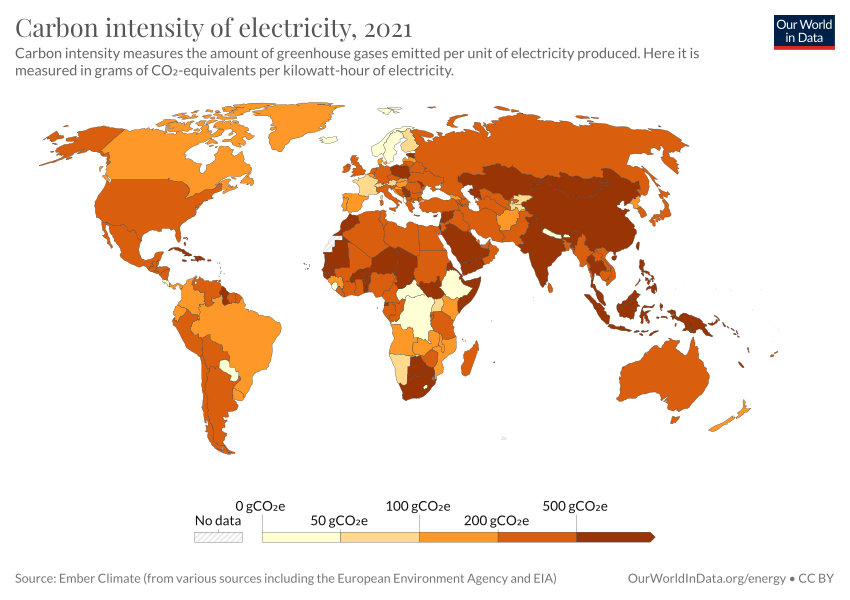
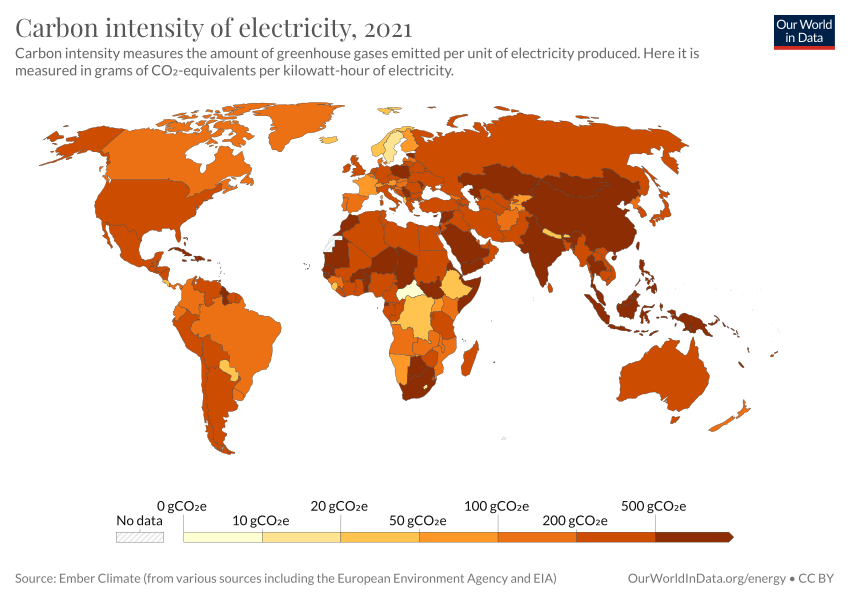
Deploy 2022-10-06T21:45:19.979Z Updating chart carbon-intensity-electricity

diff --git a/co2-emissions.html b/co2-emissions.html
@@ -1,4 +1,4 @@
-<!doctype html><html><head><meta name="viewport" content="width=device-width, initial-scale=1"/><title>CO2 emissions - Our World in Data</title><meta name="description" content="How much CO2 does the world emit? Which countries emit the most?"/><link rel="canonical" href="https://ourworldindata.org/co2-emissions"/><link rel="alternate" type="application/atom+xml" href="/atom.xml"/><link rel="apple-touch-icon" sizes="180x180" href="/apple-touch-icon.png"/><meta property="fb:app_id" content="1149943818390250"/><meta property="og:url" content="https://ourworldindata.org/co2-emissions"/><meta property="og:title" content="CO2 emissions"/><meta property="og:description" content="How much CO2 does the world emit? Which countries emit the most?"/><meta property="og:image" content="https://ourworldindata.org/uploads/2022/03/Screenshot-2022-03-04-at-16.51.31-768x480.png"/><meta property="og:site_name" content="Our World in Data"/><meta name="twitter:card" content="summary_large_image"/><meta name="twitter:site" content="@OurWorldInData"/><meta name="twitter:creator" content="@OurWorldInData"/><meta name="twitter:title" content="CO2 emissions"/><meta name="twitter:description" content="How much CO2 does the world emit? Which countries emit the most?"/><meta name="twitter:image" content="https://ourworldindata.org/uploads/2022/03/Screenshot-2022-03-04-at-16.51.31-768x480.png"/><link href="https://fonts.googleapis.com/css?family=Lato:300,400,400i,700,700i|Playfair+Display:400,600,700&amp;display=swap" rel="stylesheet"/><link rel="stylesheet" href="https://ourworldindata.org/assets/commons.css"/><link rel="stylesheet" href="https://ourworldindata.org/assets/owid.css"/><meta name="citation_title" content="CO₂ and Greenhouse Gas Emissions"/><meta name="citation_fulltext_html_url" content="https://ourworldindata.org/co2-and-other-greenhouse-gas-emissions"/><meta name="citation_fulltext_world_readable" content=""/><meta name="citation_publication_date" content="2020/05/11"/><meta name="citation_journal_title" content="Our World in Data"/><meta name="citation_journal_abbrev" content="Our World in Data"/><meta name="citation_author" content="Hannah Ritchie"/><meta name="citation_author" content="Max Roser"/><meta name="citation_author" content="Pablo Rosado"/></head><body class=""><header class="site-header"><div class="wrapper site-navigation-bar"><div class="site-logo"><a href="/">Our World<br/> in Data</a></div><nav class="site-navigation"><div class="topics-button-wrapper"><a href="/#entries" class="topics-button"><div class="label">Articles <br/><strong>by topic</strong></div><div class="icon"><svg width="12" height="6"><path d="M0,0 L12,0 L6,6 Z" fill="currentColor"></path></svg></div></a></div><div><div class="site-primary-navigation"><form class="HeaderSearch" action="/search" method="GET"><input type="search" name="q" placeholder="Search..."/><div class="icon"><svg aria-hidden="true" focusable="false" data-prefix="fas" data-icon="magnifying-glass" class="svg-inline--fa fa-magnifying-glass " role="img" xmlns="http://www.w3.org/2000/svg" viewBox="0 0 512 512"><path fill="currentColor" d="M416 208c0 45.9-14.9 88.3-40 122.7L502.6 457.4c12.5 12.5 12.5 32.8 0 45.3s-32.8 12.5-45.3 0L330.7 376c-34.4 25.2-76.8 40-122.7 40C93.1 416 0 322.9 0 208S93.1 0 208 0S416 93.1 416 208zM208 352c79.5 0 144-64.5 144-144s-64.5-144-144-144S64 128.5 64 208s64.5 144 144 144z"></path></svg></div></form><ul class="site-primary-links"><li><a href="/blog" data-track-note="header-navigation">Latest</a></li><li><a href="/about" data-track-note="header-navigation">About</a></li><li><a href="/donate" data-track-note="header-navigation">Donate</a></li></ul></div><div class="site-secondary-navigation"><ul class="site-secondary-links"><li><a href="/charts" data-track-note="header-navigation">All charts</a></li><li><a href="https://sdg-tracker.org" data-track-note="header-navigation">Sustainable Development Goals Tracker</a></li></ul></div></div></nav><div class="header-logos-wrapper"><a href="https://www.oxfordmartin.ox.ac.uk/global-development" class="oxford-logo"><img src="https://ourworldindata.org/oms-logo.svg" alt="Oxford Martin School logo"/></a><a href="https://global-change-data-lab.org/" class="gcdl-logo"><img src="https://ourworldindata.org/gcdl-logo.svg" alt="Global Change Data Lab logo"/></a></div><div class="mobile-site-navigation"><button data-track-note="mobile-search-button"><svg aria-hidden="true" focusable="false" data-prefix="fas" data-icon="magnifying-glass" class="svg-inline--fa fa-magnifying-glass " role="img" xmlns="http://www.w3.org/2000/svg" viewBox="0 0 512 512"><path fill="currentColor" d="M416 208c0 45.9-14.9 88.3-40 122.7L502.6 457.4c12.5 12.5 12.5 32.8 0 45.3s-32.8 12.5-45.3 0L330.7 376c-34.4 25.2-76.8 40-122.7 40C93.1 416 0 322.9 0 208S93.1 0 208 0S416 93.1 416 208zM208 352c79.5 0 144-64.5 144-144s-64.5-144-144-144S64 128.5 64 208s64.5 144 144 144z"></path></svg></button><button data-track-note="mobile-newsletter-button"><svg aria-hidden="true" focusable="false" data-prefix="fas" data-icon="envelope-open-text" class="svg-inline--fa fa-envelope-open-text " role="img" xmlns="http://www.w3.org/2000/svg" viewBox="0 0 512 512"><path fill="currentColor" d="M215.4 96H144 107.8 96v8.8V144v40.4 89L.2 202.5c1.6-18.1 10.9-34.9 25.7-45.8L48 140.3V96c0-26.5 21.5-48 48-48h76.6l49.9-36.9C232.2 3.9 243.9 0 256 0s23.8 3.9 33.5 11L339.4 48H416c26.5 0 48 21.5 48 48v44.3l22.1 16.4c14.8 10.9 24.1 27.7 25.7 45.8L416 273.4v-89V144 104.8 96H404.2 368 296.6 215.4zM0 448V242.1L217.6 403.3c11.1 8.2 24.6 12.7 38.4 12.7s27.3-4.4 38.4-12.7L512 242.1V448v0c0 35.3-28.7 64-64 64H64c-35.3 0-64-28.7-64-64v0zM176 160H336c8.8 0 16 7.2 16 16s-7.2 16-16 16H176c-8.8 0-16-7.2-16-16s7.2-16 16-16zm0 64H336c8.8 0 16 7.2 16 16s-7.2 16-16 16H176c-8.8 0-16-7.2-16-16s7.2-16 16-16z"></path></svg></button><button data-track-note="mobile-hamburger-button"><svg aria-hidden="true" focusable="false" data-prefix="fas" data-icon="bars" class="svg-inline--fa fa-bars " role="img" xmlns="http://www.w3.org/2000/svg" viewBox="0 0 448 512"><path fill="currentColor" d="M0 96C0 78.3 14.3 64 32 64H416c17.7 0 32 14.3 32 32s-14.3 32-32 32H32C14.3 128 0 113.7 0 96zM0 256c0-17.7 14.3-32 32-32H416c17.7 0 32 14.3 32 32s-14.3 32-32 32H32c-17.7 0-32-14.3-32-32zM448 416c0 17.7-14.3 32-32 32H32c-17.7 0-32-14.3-32-32s14.3-32 32-32H416c17.7 0 32 14.3 32 32z"></path></svg></button></div></div></header><div class="alert-banner"><div class="content"><div class="text"><strong>COVID-19 vaccinations, cases, excess mortality, and much more</strong></div><a href="/coronavirus#explore-the-global-situation" data-track-note="covid-banner-click">Explore our COVID-19 data</a></div></div><main><article class="page with-sidebar large-banner"><div class="offset-header"><header class="article-header"><div class="article-titles"><h1 class="entry-title">CO2 emissions</h1><div class="breadcrumb"><a href="/">Home</a><span class="separator"><svg aria-hidden="true" focusable="false" data-prefix="fas" data-icon="angle-right" class="svg-inline--fa fa-angle-right " role="img" xmlns="http://www.w3.org/2000/svg" viewBox="0 0 320 512"><path fill="currentColor" d="M278.6 233.4c12.5 12.5 12.5 32.8 0 45.3l-160 160c-12.5 12.5-32.8 12.5-45.3 0s-12.5-32.8 0-45.3L210.7 256 73.4 118.6c-12.5-12.5-12.5-32.8 0-45.3s32.8-12.5 45.3 0l160 160z"></path></svg></span><a data-track-note="breadcrumb" href="/co2-and-other-greenhouse-gas-emissions">CO₂ and GHG Emissions</a><span class="separator"><svg aria-hidden="true" focusable="false" data-prefix="fas" data-icon="angle-right" class="svg-inline--fa fa-angle-right " role="img" xmlns="http://www.w3.org/2000/svg" viewBox="0 0 320 512"><path fill="currentColor" d="M278.6 233.4c12.5 12.5 12.5 32.8 0 45.3l-160 160c-12.5 12.5-32.8 12.5-45.3 0s-12.5-32.8 0-45.3L210.7 256 73.4 118.6c-12.5-12.5-12.5-32.8 0-45.3s32.8-12.5 45.3 0l160 160z"></path></svg></span><span>CO₂ emissions</span></div></div><div class="authors-byline"><a href="/team">by Hannah Ritchie and Max Roser</a></div><div class="tools"><a href="#licence"><svg aria-hidden="true" focusable="false" data-prefix="fab" data-icon="creative-commons" class="svg-inline--fa fa-creative-commons " role="img" xmlns="http://www.w3.org/2000/svg" viewBox="0 0 496 512"><path fill="currentColor" d="M245.83 214.87l-33.22 17.28c-9.43-19.58-25.24-19.93-27.46-19.93-22.13 0-33.22 14.61-33.22 43.84 0 23.57 9.21 43.84 33.22 43.84 14.47 0 24.65-7.09 30.57-21.26l30.55 15.5c-6.17 11.51-25.69 38.98-65.1 38.98-22.6 0-73.96-10.32-73.96-77.05 0-58.69 43-77.06 72.63-77.06 30.72-.01 52.7 11.95 65.99 35.86zm143.05 0l-32.78 17.28c-9.5-19.77-25.72-19.93-27.9-19.93-22.14 0-33.22 14.61-33.22 43.84 0 23.55 9.23 43.84 33.22 43.84 14.45 0 24.65-7.09 30.54-21.26l31 15.5c-2.1 3.75-21.39 38.98-65.09 38.98-22.69 0-73.96-9.87-73.96-77.05 0-58.67 42.97-77.06 72.63-77.06 30.71-.01 52.58 11.95 65.56 35.86zM247.56 8.05C104.74 8.05 0 123.11 0 256.05c0 138.49 113.6 248 247.56 248 129.93 0 248.44-100.87 248.44-248 0-137.87-106.62-248-248.44-248zm.87 450.81c-112.54 0-203.7-93.04-203.7-202.81 0-105.42 85.43-203.27 203.72-203.27 112.53 0 202.82 89.46 202.82 203.26-.01 121.69-99.68 202.82-202.84 202.82z"></path></svg>Reuse our work freely</a><a href="#citation"><svg aria-hidden="true" focusable="false" data-prefix="fas" data-icon="book" class="svg-inline--fa fa-book " role="img" xmlns="http://www.w3.org/2000/svg" viewBox="0 0 448 512"><path fill="currentColor" d="M96 0C43 0 0 43 0 96V416c0 53 43 96 96 96H384h32c17.7 0 32-14.3 32-32s-14.3-32-32-32V384c17.7 0 32-14.3 32-32V32c0-17.7-14.3-32-32-32H384 96zm0 384H352v64H96c-17.7 0-32-14.3-32-32s14.3-32 32-32zm32-240c0-8.8 7.2-16 16-16H336c8.8 0 16 7.2 16 16s-7.2 16-16 16H144c-8.8 0-16-7.2-16-16zm16 48H336c8.8 0 16 7.2 16 16s-7.2 16-16 16H144c-8.8 0-16-7.2-16-16s7.2-16 16-16z"></path></svg>Cite this research</a></div></header></div><div class="offset-subnavigation"><div class="site-subnavigation"><div class="site-subnavigation-scroll"><ul class="site-subnavigation-links"><li class="highlight"><a href="/co2-and-other-greenhouse-gas-emissions" data-track-note="co2-subnav-co2-and-ghg-emissions">CO₂ and GHG Emissions<svg aria-hidden="true" focusable="false" data-prefix="fas" data-icon="chevron-left" class="svg-inline--fa fa-chevron-left " role="img" xmlns="http://www.w3.org/2000/svg" viewBox="0 0 384 512"><path fill="currentColor" d="M41.4 233.4c-12.5 12.5-12.5 32.8 0 45.3l192 192c12.5 12.5 32.8 12.5 45.3 0s12.5-32.8 0-45.3L109.3 256 278.6 86.6c12.5-12.5 12.5-32.8 0-45.3s-32.8-12.5-45.3 0l-192 192z"></path></svg></a></li><li class=""><a href="/co2-and-other-greenhouse-gas-emissions#co2-and-greenhouse-gas-emissions-country-profiles" data-track-note="co2-subnav-by-country">By country</a></li><li class=""><a href="/explorers/co2" data-track-note="co2-subnav-co2-data-explorer">Data explorer</a></li><li class="current"><a href="/co2-emissions" data-track-note="co2-subnav-co2-emissions">CO₂ emissions</a></li><li class=""><a href="/emissions-by-fuel" data-track-note="co2-subnav-by-fuel">CO₂ by fuel</a></li><li class=""><a href="/greenhouse-gas-emissions" data-track-note="co2-subnav-ghg-emissions">GHG emissions</a></li><li class=""><a href="/emissions-by-sector" data-track-note="co2-subnav-by-sector">By sector</a></li><li class=""><a href="/atmospheric-concentrations" data-track-note="co2-subnav-atm-concentrations">Atmospheric concentrations</a></li><li class=""><a href="/explorers/climate-change" data-track-note="co2-subnav-climate-impacts">Climate impacts</a></li></ul></div></div></div><div class="content-wrapper"><div class="toc-wrapper"><aside class="entry-sidebar"><nav class="entry-toc"><ul><li><a href="#" data-track-note="toc-header">CO2 emissions</a></li><li class="section"><a href="#global-co2-emissions-from-fossil-fuels" data-track-note="toc-link">Global CO2 emissions from fossil fuels</a></li><li class="subsection"><a href="#global-co2-emissions-from-fossil-fuels-global-co2-emissions-from-fossil-fuels" data-track-note="toc-link">Global CO2 emissions from fossil fuels</a></li><li class="subsection"><a href="#global-co2-emissions-from-fossil-fuels-and-land-use-change" data-track-note="toc-link">Global CO2 emissions from fossil fuels and land use change</a></li><li class="subsection"><a href="#co2-emissions-by-region" data-track-note="toc-link">CO2 emissions by region</a></li><li class="section"><a href="#per-capita-co2-emissions" data-track-note="toc-link">Per capita CO2 emissions</a></li><li class="section"><a href="#annual-co2-emissions" data-track-note="toc-link">Annual CO2 emissions</a></li><li class="section"><a href="#annual-change-in-co2-emissions" data-track-note="toc-link">Annual change in CO2 emissions</a></li><li class="section"><a href="#cumulative-co2-emissions" data-track-note="toc-link">Cumulative CO2 emissions</a></li><li class="section"><a href="#consumption-based-trade-adjusted-emissions" data-track-note="toc-link">Consumption-based (trade-adjusted) emissions</a></li><li class="section"><a href="#decoupling-co2-emissions-from-economic-growth" data-track-note="toc-link">Decoupling CO₂ emissions from economic growth</a></li><li class="section"><a href="#global-inequalities-in-co2-emissions" data-track-note="toc-link">Global inequalities in CO2 emissions</a></li><li class="subsection"><a href="#global-inequalities-by-production" data-track-note="toc-link">Global inequalities by production</a></li><li class="subsection"><a href="#global-inequalities-by-consumption" data-track-note="toc-link">Global inequalities by consumption</a></li><li class="section"><a href="#how-do-we-measure-or-estimate-co2-emissions" data-track-note="toc-link">How do we measure or estimate CO2 emissions?</a></li><li class="section"><a href="#endnotes" data-track-note="toc-link">Endnotes</a></li><li class="section"><a href="#licence" data-track-note="toc-link">Licence</a></li><li class="section"><a href="#citation" data-track-note="toc-link">Citation</a></li></ul></nav><div class="toggle-toc"><button data-track-note="page-toggle-toc" aria-label="Open table of contents"><svg aria-hidden="true" focusable="false" data-prefix="fas" data-icon="bars" class="svg-inline--fa fa-bars " role="img" xmlns="http://www.w3.org/2000/svg" viewBox="0 0 448 512"><path fill="currentColor" d="M0 96C0 78.3 14.3 64 32 64H416c17.7 0 32 14.3 32 32s-14.3 32-32 32H32C14.3 128 0 113.7 0 96zM0 256c0-17.7 14.3-32 32-32H416c17.7 0 32 14.3 32 32s-14.3 32-32 32H32c-17.7 0-32-14.3-32-32zM448 416c0 17.7-14.3 32-32 32H32c-17.7 0-32-14.3-32-32s14.3-32 32-32H416c17.7 0 32 14.3 32 32z"></path></svg><span class="label">Contents</span></button></div></aside></div><div class="offset-content"><div class="content-and-footnotes"><div class="article-content"><section><div class="wp-block-columns is-style-sticky-right"><div class="wp-block-column"><p>You can&nbsp;<strong><a href="https://github.com/owid/co2-data">download</a></strong>&nbsp;our complete <em>Our World in Data</em> CO<sub>2</sub> and Greenhouse Gas Emissions database.</p><hr class="wp-block-separator"><p>Carbon dioxide emissions are the primary driver of global climate change. It’s widely recognised that to avoid the worst impacts of climate change, the world needs to urgently reduce emissions. But, how this responsibility is shared between regions, countries, and individuals has been an endless point of contention in international discussions. </p><p>This debate arises from the various ways in which emissions are compared: as annual emissions by country; emissions per person; historical contributions; and whether they adjust for traded goods and services. These metrics can tell very different stories. </p><p>We teamed up with the YouTube channel, <em>Kurzgesagt</em>, to produce a video which explored these different metrics in detail: <a href="https://www.youtube.com/watch?v=ipVxxxqwBQw">‘Who is responsible for climate change? – Who needs to fix it?’</a>. All of the data and research featured in this video is contained in this article: below we look in detail at the many ways emissions are broken down.</p><div class="wp-container-633f28788ea16 wp-block-group">    <div class="block-wrapper"><div class="wp-block-owid-prominent-link with-image" data-no-lightbox="true" data-style="is-style-thin" data-title="&nbsp;‘Who is responsible for climate change? – Who needs to fix it?’"><a href="https://www.youtube.com/watch?v=ipVxxxqwBQw"><figure><img width="768" height="433" src="https://ourworldindata.org/uploads/2020/06/CO2-Kurzgesagt-768x433.png" class="attachment-medium_large size-medium_large" alt="Co2 kurzgesagt" loading="lazy" srcset="https://ourworldindata.org/uploads/2020/06/CO2-Kurzgesagt-768x433.png 768w, https://ourworldindata.org/uploads/2020/06/CO2-Kurzgesagt-400x225.png 400w, https://ourworldindata.org/uploads/2020/06/CO2-Kurzgesagt-800x451.png 800w, https://ourworldindata.org/uploads/2020/06/CO2-Kurzgesagt-150x84.png 150w, https://ourworldindata.org/uploads/2020/06/CO2-Kurzgesagt.png 1422w" sizes="(max-width: 768px) 100vw, 768px" data-high-res-src="https://ourworldindata.org/uploads/2020/06/CO2-Kurzgesagt.png"></figure><div class="content-wrapper"><div class="content">
+<!doctype html><html><head><meta name="viewport" content="width=device-width, initial-scale=1"/><title>CO2 emissions - Our World in Data</title><meta name="description" content="How much CO2 does the world emit? Which countries emit the most?"/><link rel="canonical" href="https://ourworldindata.org/co2-emissions"/><link rel="alternate" type="application/atom+xml" href="/atom.xml"/><link rel="apple-touch-icon" sizes="180x180" href="/apple-touch-icon.png"/><meta property="fb:app_id" content="1149943818390250"/><meta property="og:url" content="https://ourworldindata.org/co2-emissions"/><meta property="og:title" content="CO2 emissions"/><meta property="og:description" content="How much CO2 does the world emit? Which countries emit the most?"/><meta property="og:image" content="https://ourworldindata.org/uploads/2022/03/Screenshot-2022-03-04-at-16.51.31-768x480.png"/><meta property="og:site_name" content="Our World in Data"/><meta name="twitter:card" content="summary_large_image"/><meta name="twitter:site" content="@OurWorldInData"/><meta name="twitter:creator" content="@OurWorldInData"/><meta name="twitter:title" content="CO2 emissions"/><meta name="twitter:description" content="How much CO2 does the world emit? Which countries emit the most?"/><meta name="twitter:image" content="https://ourworldindata.org/uploads/2022/03/Screenshot-2022-03-04-at-16.51.31-768x480.png"/><link href="https://fonts.googleapis.com/css?family=Lato:300,400,400i,700,700i|Playfair+Display:400,600,700&amp;display=swap" rel="stylesheet"/><link rel="stylesheet" href="https://ourworldindata.org/assets/commons.css"/><link rel="stylesheet" href="https://ourworldindata.org/assets/owid.css"/><meta name="citation_title" content="CO₂ and Greenhouse Gas Emissions"/><meta name="citation_fulltext_html_url" content="https://ourworldindata.org/co2-and-other-greenhouse-gas-emissions"/><meta name="citation_fulltext_world_readable" content=""/><meta name="citation_publication_date" content="2020/05/11"/><meta name="citation_journal_title" content="Our World in Data"/><meta name="citation_journal_abbrev" content="Our World in Data"/><meta name="citation_author" content="Hannah Ritchie"/><meta name="citation_author" content="Max Roser"/><meta name="citation_author" content="Pablo Rosado"/></head><body class=""><header class="site-header"><div class="wrapper site-navigation-bar"><div class="site-logo"><a href="/">Our World<br/> in Data</a></div><nav class="site-navigation"><div class="topics-button-wrapper"><a href="/#entries" class="topics-button"><div class="label">Articles <br/><strong>by topic</strong></div><div class="icon"><svg width="12" height="6"><path d="M0,0 L12,0 L6,6 Z" fill="currentColor"></path></svg></div></a></div><div><div class="site-primary-navigation"><form class="HeaderSearch" action="/search" method="GET"><input type="search" name="q" placeholder="Search..."/><div class="icon"><svg aria-hidden="true" focusable="false" data-prefix="fas" data-icon="magnifying-glass" class="svg-inline--fa fa-magnifying-glass " role="img" xmlns="http://www.w3.org/2000/svg" viewBox="0 0 512 512"><path fill="currentColor" d="M416 208c0 45.9-14.9 88.3-40 122.7L502.6 457.4c12.5 12.5 12.5 32.8 0 45.3s-32.8 12.5-45.3 0L330.7 376c-34.4 25.2-76.8 40-122.7 40C93.1 416 0 322.9 0 208S93.1 0 208 0S416 93.1 416 208zM208 352c79.5 0 144-64.5 144-144s-64.5-144-144-144S64 128.5 64 208s64.5 144 144 144z"></path></svg></div></form><ul class="site-primary-links"><li><a href="/blog" data-track-note="header-navigation">Latest</a></li><li><a href="/about" data-track-note="header-navigation">About</a></li><li><a href="/donate" data-track-note="header-navigation">Donate</a></li></ul></div><div class="site-secondary-navigation"><ul class="site-secondary-links"><li><a href="/charts" data-track-note="header-navigation">All charts</a></li><li><a href="https://sdg-tracker.org" data-track-note="header-navigation">Sustainable Development Goals Tracker</a></li></ul></div></div></nav><div class="header-logos-wrapper"><a href="https://www.oxfordmartin.ox.ac.uk/global-development" class="oxford-logo"><img src="https://ourworldindata.org/oms-logo.svg" alt="Oxford Martin School logo"/></a><a href="https://global-change-data-lab.org/" class="gcdl-logo"><img src="https://ourworldindata.org/gcdl-logo.svg" alt="Global Change Data Lab logo"/></a></div><div class="mobile-site-navigation"><button data-track-note="mobile-search-button"><svg aria-hidden="true" focusable="false" data-prefix="fas" data-icon="magnifying-glass" class="svg-inline--fa fa-magnifying-glass " role="img" xmlns="http://www.w3.org/2000/svg" viewBox="0 0 512 512"><path fill="currentColor" d="M416 208c0 45.9-14.9 88.3-40 122.7L502.6 457.4c12.5 12.5 12.5 32.8 0 45.3s-32.8 12.5-45.3 0L330.7 376c-34.4 25.2-76.8 40-122.7 40C93.1 416 0 322.9 0 208S93.1 0 208 0S416 93.1 416 208zM208 352c79.5 0 144-64.5 144-144s-64.5-144-144-144S64 128.5 64 208s64.5 144 144 144z"></path></svg></button><button data-track-note="mobile-newsletter-button"><svg aria-hidden="true" focusable="false" data-prefix="fas" data-icon="envelope-open-text" class="svg-inline--fa fa-envelope-open-text " role="img" xmlns="http://www.w3.org/2000/svg" viewBox="0 0 512 512"><path fill="currentColor" d="M215.4 96H144 107.8 96v8.8V144v40.4 89L.2 202.5c1.6-18.1 10.9-34.9 25.7-45.8L48 140.3V96c0-26.5 21.5-48 48-48h76.6l49.9-36.9C232.2 3.9 243.9 0 256 0s23.8 3.9 33.5 11L339.4 48H416c26.5 0 48 21.5 48 48v44.3l22.1 16.4c14.8 10.9 24.1 27.7 25.7 45.8L416 273.4v-89V144 104.8 96H404.2 368 296.6 215.4zM0 448V242.1L217.6 403.3c11.1 8.2 24.6 12.7 38.4 12.7s27.3-4.4 38.4-12.7L512 242.1V448v0c0 35.3-28.7 64-64 64H64c-35.3 0-64-28.7-64-64v0zM176 160H336c8.8 0 16 7.2 16 16s-7.2 16-16 16H176c-8.8 0-16-7.2-16-16s7.2-16 16-16zm0 64H336c8.8 0 16 7.2 16 16s-7.2 16-16 16H176c-8.8 0-16-7.2-16-16s7.2-16 16-16z"></path></svg></button><button data-track-note="mobile-hamburger-button"><svg aria-hidden="true" focusable="false" data-prefix="fas" data-icon="bars" class="svg-inline--fa fa-bars " role="img" xmlns="http://www.w3.org/2000/svg" viewBox="0 0 448 512"><path fill="currentColor" d="M0 96C0 78.3 14.3 64 32 64H416c17.7 0 32 14.3 32 32s-14.3 32-32 32H32C14.3 128 0 113.7 0 96zM0 256c0-17.7 14.3-32 32-32H416c17.7 0 32 14.3 32 32s-14.3 32-32 32H32c-17.7 0-32-14.3-32-32zM448 416c0 17.7-14.3 32-32 32H32c-17.7 0-32-14.3-32-32s14.3-32 32-32H416c17.7 0 32 14.3 32 32z"></path></svg></button></div></div></header><div class="alert-banner"><div class="content"><div class="text"><strong>COVID-19 vaccinations, cases, excess mortality, and much more</strong></div><a href="/coronavirus#explore-the-global-situation" data-track-note="covid-banner-click">Explore our COVID-19 data</a></div></div><main><article class="page with-sidebar large-banner"><div class="offset-header"><header class="article-header"><div class="article-titles"><h1 class="entry-title">CO2 emissions</h1><div class="breadcrumb"><a href="/">Home</a><span class="separator"><svg aria-hidden="true" focusable="false" data-prefix="fas" data-icon="angle-right" class="svg-inline--fa fa-angle-right " role="img" xmlns="http://www.w3.org/2000/svg" viewBox="0 0 320 512"><path fill="currentColor" d="M278.6 233.4c12.5 12.5 12.5 32.8 0 45.3l-160 160c-12.5 12.5-32.8 12.5-45.3 0s-12.5-32.8 0-45.3L210.7 256 73.4 118.6c-12.5-12.5-12.5-32.8 0-45.3s32.8-12.5 45.3 0l160 160z"></path></svg></span><a data-track-note="breadcrumb" href="/co2-and-other-greenhouse-gas-emissions">CO₂ and GHG Emissions</a><span class="separator"><svg aria-hidden="true" focusable="false" data-prefix="fas" data-icon="angle-right" class="svg-inline--fa fa-angle-right " role="img" xmlns="http://www.w3.org/2000/svg" viewBox="0 0 320 512"><path fill="currentColor" d="M278.6 233.4c12.5 12.5 12.5 32.8 0 45.3l-160 160c-12.5 12.5-32.8 12.5-45.3 0s-12.5-32.8 0-45.3L210.7 256 73.4 118.6c-12.5-12.5-12.5-32.8 0-45.3s32.8-12.5 45.3 0l160 160z"></path></svg></span><span>CO₂ emissions</span></div></div><div class="authors-byline"><a href="/team">by Hannah Ritchie and Max Roser</a></div><div class="tools"><a href="#licence"><svg aria-hidden="true" focusable="false" data-prefix="fab" data-icon="creative-commons" class="svg-inline--fa fa-creative-commons " role="img" xmlns="http://www.w3.org/2000/svg" viewBox="0 0 496 512"><path fill="currentColor" d="M245.83 214.87l-33.22 17.28c-9.43-19.58-25.24-19.93-27.46-19.93-22.13 0-33.22 14.61-33.22 43.84 0 23.57 9.21 43.84 33.22 43.84 14.47 0 24.65-7.09 30.57-21.26l30.55 15.5c-6.17 11.51-25.69 38.98-65.1 38.98-22.6 0-73.96-10.32-73.96-77.05 0-58.69 43-77.06 72.63-77.06 30.72-.01 52.7 11.95 65.99 35.86zm143.05 0l-32.78 17.28c-9.5-19.77-25.72-19.93-27.9-19.93-22.14 0-33.22 14.61-33.22 43.84 0 23.55 9.23 43.84 33.22 43.84 14.45 0 24.65-7.09 30.54-21.26l31 15.5c-2.1 3.75-21.39 38.98-65.09 38.98-22.69 0-73.96-9.87-73.96-77.05 0-58.67 42.97-77.06 72.63-77.06 30.71-.01 52.58 11.95 65.56 35.86zM247.56 8.05C104.74 8.05 0 123.11 0 256.05c0 138.49 113.6 248 247.56 248 129.93 0 248.44-100.87 248.44-248 0-137.87-106.62-248-248.44-248zm.87 450.81c-112.54 0-203.7-93.04-203.7-202.81 0-105.42 85.43-203.27 203.72-203.27 112.53 0 202.82 89.46 202.82 203.26-.01 121.69-99.68 202.82-202.84 202.82z"></path></svg>Reuse our work freely</a><a href="#citation"><svg aria-hidden="true" focusable="false" data-prefix="fas" data-icon="book" class="svg-inline--fa fa-book " role="img" xmlns="http://www.w3.org/2000/svg" viewBox="0 0 448 512"><path fill="currentColor" d="M96 0C43 0 0 43 0 96V416c0 53 43 96 96 96H384h32c17.7 0 32-14.3 32-32s-14.3-32-32-32V384c17.7 0 32-14.3 32-32V32c0-17.7-14.3-32-32-32H384 96zm0 384H352v64H96c-17.7 0-32-14.3-32-32s14.3-32 32-32zm32-240c0-8.8 7.2-16 16-16H336c8.8 0 16 7.2 16 16s-7.2 16-16 16H144c-8.8 0-16-7.2-16-16zm16 48H336c8.8 0 16 7.2 16 16s-7.2 16-16 16H144c-8.8 0-16-7.2-16-16s7.2-16 16-16z"></path></svg>Cite this research</a></div></header></div><div class="offset-subnavigation"><div class="site-subnavigation"><div class="site-subnavigation-scroll"><ul class="site-subnavigation-links"><li class="highlight"><a href="/co2-and-other-greenhouse-gas-emissions" data-track-note="co2-subnav-co2-and-ghg-emissions">CO₂ and GHG Emissions<svg aria-hidden="true" focusable="false" data-prefix="fas" data-icon="chevron-left" class="svg-inline--fa fa-chevron-left " role="img" xmlns="http://www.w3.org/2000/svg" viewBox="0 0 384 512"><path fill="currentColor" d="M41.4 233.4c-12.5 12.5-12.5 32.8 0 45.3l192 192c12.5 12.5 32.8 12.5 45.3 0s12.5-32.8 0-45.3L109.3 256 278.6 86.6c12.5-12.5 12.5-32.8 0-45.3s-32.8-12.5-45.3 0l-192 192z"></path></svg></a></li><li class=""><a href="/co2-and-other-greenhouse-gas-emissions#co2-and-greenhouse-gas-emissions-country-profiles" data-track-note="co2-subnav-by-country">By country</a></li><li class=""><a href="/explorers/co2" data-track-note="co2-subnav-co2-data-explorer">Data explorer</a></li><li class="current"><a href="/co2-emissions" data-track-note="co2-subnav-co2-emissions">CO₂ emissions</a></li><li class=""><a href="/emissions-by-fuel" data-track-note="co2-subnav-by-fuel">CO₂ by fuel</a></li><li class=""><a href="/greenhouse-gas-emissions" data-track-note="co2-subnav-ghg-emissions">GHG emissions</a></li><li class=""><a href="/emissions-by-sector" data-track-note="co2-subnav-by-sector">By sector</a></li><li class=""><a href="/atmospheric-concentrations" data-track-note="co2-subnav-atm-concentrations">Atmospheric concentrations</a></li><li class=""><a href="/explorers/climate-change" data-track-note="co2-subnav-climate-impacts">Climate impacts</a></li></ul></div></div></div><div class="content-wrapper"><div class="toc-wrapper"><aside class="entry-sidebar"><nav class="entry-toc"><ul><li><a href="#" data-track-note="toc-header">CO2 emissions</a></li><li class="section"><a href="#global-co2-emissions-from-fossil-fuels" data-track-note="toc-link">Global CO2 emissions from fossil fuels</a></li><li class="subsection"><a href="#global-co2-emissions-from-fossil-fuels-global-co2-emissions-from-fossil-fuels" data-track-note="toc-link">Global CO2 emissions from fossil fuels</a></li><li class="subsection"><a href="#global-co2-emissions-from-fossil-fuels-and-land-use-change" data-track-note="toc-link">Global CO2 emissions from fossil fuels and land use change</a></li><li class="subsection"><a href="#co2-emissions-by-region" data-track-note="toc-link">CO2 emissions by region</a></li><li class="section"><a href="#per-capita-co2-emissions" data-track-note="toc-link">Per capita CO2 emissions</a></li><li class="section"><a href="#annual-co2-emissions" data-track-note="toc-link">Annual CO2 emissions</a></li><li class="section"><a href="#annual-change-in-co2-emissions" data-track-note="toc-link">Annual change in CO2 emissions</a></li><li class="section"><a href="#cumulative-co2-emissions" data-track-note="toc-link">Cumulative CO2 emissions</a></li><li class="section"><a href="#consumption-based-trade-adjusted-emissions" data-track-note="toc-link">Consumption-based (trade-adjusted) emissions</a></li><li class="section"><a href="#decoupling-co2-emissions-from-economic-growth" data-track-note="toc-link">Decoupling CO₂ emissions from economic growth</a></li><li class="section"><a href="#global-inequalities-in-co2-emissions" data-track-note="toc-link">Global inequalities in CO2 emissions</a></li><li class="subsection"><a href="#global-inequalities-by-production" data-track-note="toc-link">Global inequalities by production</a></li><li class="subsection"><a href="#global-inequalities-by-consumption" data-track-note="toc-link">Global inequalities by consumption</a></li><li class="section"><a href="#how-do-we-measure-or-estimate-co2-emissions" data-track-note="toc-link">How do we measure or estimate CO2 emissions?</a></li><li class="section"><a href="#endnotes" data-track-note="toc-link">Endnotes</a></li><li class="section"><a href="#licence" data-track-note="toc-link">Licence</a></li><li class="section"><a href="#citation" data-track-note="toc-link">Citation</a></li></ul></nav><div class="toggle-toc"><button data-track-note="page-toggle-toc" aria-label="Open table of contents"><svg aria-hidden="true" focusable="false" data-prefix="fas" data-icon="bars" class="svg-inline--fa fa-bars " role="img" xmlns="http://www.w3.org/2000/svg" viewBox="0 0 448 512"><path fill="currentColor" d="M0 96C0 78.3 14.3 64 32 64H416c17.7 0 32 14.3 32 32s-14.3 32-32 32H32C14.3 128 0 113.7 0 96zM0 256c0-17.7 14.3-32 32-32H416c17.7 0 32 14.3 32 32s-14.3 32-32 32H32c-17.7 0-32-14.3-32-32zM448 416c0 17.7-14.3 32-32 32H32c-17.7 0-32-14.3-32-32s14.3-32 32-32H416c17.7 0 32 14.3 32 32z"></path></svg><span class="label">Contents</span></button></div></aside></div><div class="offset-content"><div class="content-and-footnotes"><div class="article-content"><section><div class="wp-block-columns is-style-sticky-right"><div class="wp-block-column"><p>You can&nbsp;<strong><a href="https://github.com/owid/co2-data">download</a></strong>&nbsp;our complete <em>Our World in Data</em> CO<sub>2</sub> and Greenhouse Gas Emissions database.</p><hr class="wp-block-separator"><p>Carbon dioxide emissions are the primary driver of global climate change. It’s widely recognised that to avoid the worst impacts of climate change, the world needs to urgently reduce emissions. But, how this responsibility is shared between regions, countries, and individuals has been an endless point of contention in international discussions. </p><p>This debate arises from the various ways in which emissions are compared: as annual emissions by country; emissions per person; historical contributions; and whether they adjust for traded goods and services. These metrics can tell very different stories. </p><p>We teamed up with the YouTube channel, <em>Kurzgesagt</em>, to produce a video which explored these different metrics in detail: <a href="https://www.youtube.com/watch?v=ipVxxxqwBQw">‘Who is responsible for climate change? – Who needs to fix it?’</a>. All of the data and research featured in this video is contained in this article: below we look in detail at the many ways emissions are broken down.</p><div class="wp-container-633f4c95b5074 wp-block-group">    <div class="block-wrapper"><div class="wp-block-owid-prominent-link with-image" data-no-lightbox="true" data-style="is-style-thin" data-title="&nbsp;‘Who is responsible for climate change? – Who needs to fix it?’"><a href="https://www.youtube.com/watch?v=ipVxxxqwBQw"><figure><img width="768" height="433" src="https://ourworldindata.org/uploads/2020/06/CO2-Kurzgesagt-768x433.png" class="attachment-medium_large size-medium_large" alt="Co2 kurzgesagt" loading="lazy" srcset="https://ourworldindata.org/uploads/2020/06/CO2-Kurzgesagt-768x433.png 768w, https://ourworldindata.org/uploads/2020/06/CO2-Kurzgesagt-400x225.png 400w, https://ourworldindata.org/uploads/2020/06/CO2-Kurzgesagt-800x451.png 800w, https://ourworldindata.org/uploads/2020/06/CO2-Kurzgesagt-150x84.png 150w, https://ourworldindata.org/uploads/2020/06/CO2-Kurzgesagt.png 1422w" sizes="(max-width: 768px) 100vw, 768px" data-high-res-src="https://ourworldindata.org/uploads/2020/06/CO2-Kurzgesagt.png"></figure><div class="content-wrapper"><div class="content">
 
 <p>We teamed up with YouTube channel <em>Kurzgesagt</em> to make a video on comparisons of CO<sub>2</sub> emissions.</p>
 

diff --git a/energy-archive.html b/energy-archive.html
@@ -201,7 +201,7 @@
 
 
 
-<div class="wp-sticky-container"><div data-project="energy" class="wp-block-search-country-profile"></div><h5><strong>Our 12 most visited country profiles</strong></h5><div class="wp-container-633f2876782d3 wp-block-group"><div class="wp-block-group__inner-container">
+<div class="wp-sticky-container"><div data-project="energy" class="wp-block-search-country-profile"></div><h5><strong>Our 12 most visited country profiles</strong></h5><div class="wp-container-633f4c93bf5e7 wp-block-group"><div class="wp-block-group__inner-container">
 <ul class="covid-country-tiles"><li><a href="https://ourworldindata.org/energy/country/united-states?country=~USA">United States</a></li><li><a href="https://ourworldindata.org/energy/country/united-kingdom?country=~GBR">United Kingdom</a></li><li><a href="https://ourworldindata.org/energy/country/china?country=~CHN">China</a></li><li><a href="https://ourworldindata.org/energy/country/india?country=~IND">India</a></li><li><a href="https://ourworldindata.org/energy/country/brazil?country=~BRA">Brazil</a></li><li><a href="https://ourworldindata.org/energy/country/south-africa?country=~ZAF">South Africa</a></li><li><a href="https://ourworldindata.org/energy/country/germany?country=~DEU">Germany</a></li><li><a href="https://ourworldindata.org/energy/country/spain?country=~ESP">Spain</a></li><li><a href="https://ourworldindata.org/energy/country/france?country=~FRA">France</a></li><li><a href="https://ourworldindata.org/energy/country/canada?country=~CAN">Canada</a></li><li><a href="https://ourworldindata.org/energy/country/australia?country=~AUS">Australia</a></li><li><a href="https://ourworldindata.org/energy/country/sweden?country=~SWE">Sweden</a></li></ul>
 </div></div></div></div>
 

diff --git a/co2-and-other-greenhouse-gas-emissions.html b/co2-and-other-greenhouse-gas-emissions.html
@@ -23,7 +23,7 @@
 
 
 
-<div class="wp-sticky-container"><div data-project="co2" class="wp-block-search-country-profile"></div><h5><strong>Our 12 most visited country profiles</strong></h5><div class="wp-container-633f2878a8cba wp-block-group">
+<div class="wp-sticky-container"><div data-project="co2" class="wp-block-search-country-profile"></div><h5><strong>Our 12 most visited country profiles</strong></h5><div class="wp-container-633f4c95ca443 wp-block-group">
 <ul class="covid-country-tiles"><li><a href="https://ourworldindata.org/co2/country/united-states?country=~USA">United States</a></li><li><a href="https://ourworldindata.org/co2/country/united-kingdom?country=~GBR">United Kingdom</a></li><li><a href="https://ourworldindata.org/co2/country/china?country=~CHN">China</a></li><li><a href="https://ourworldindata.org/co2/country/india?country=~IND">India</a></li><li><a href="https://ourworldindata.org/co2/country/brazil?country=~BRA">Brazil</a></li><li><a href="https://ourworldindata.org/co2/country/south-africa?country=~ZAF">South Africa</a></li><li><a href="https://ourworldindata.org/co2/country/germany?country=~DEU">Germany</a></li><li><a href="https://ourworldindata.org/co2/country/spain?country=~ESP">Spain</a></li><li><a href="https://ourworldindata.org/co2/country/france?country=~FRA">France</a></li><li><a href="https://ourworldindata.org/co2/country/canada?country=~CAN">Canada</a></li><li><a href="https://ourworldindata.org/co2/country/australia?country=~AUS">Australia</a></li><li><a href="https://ourworldindata.org/co2/country/sweden?country=~SWE">Sweden</a></li></ul>
 </div></div></div>
 

diff --git a/electricity-mix.html b/electricity-mix.html
@@ -364,7 +364,7 @@
                 
 <div class="wp-sticky-container"><figure data-grapher-src="https://ourworldindata.org/grapher/carbon-intensity-electricity" class="grapherPreview">
                     <a href="https://ourworldindata.org/grapher/carbon-intensity-electricity" target="_blank">
-                        <div><img src="https://ourworldindata.org/exports/carbon-intensity-electricity_v24_850x600.svg" width="850" height="600" loading="lazy" data-no-lightbox="" alt="Carbon intensity electricity v24 850x600"></div>
+                        <div><img src="https://ourworldindata.org/exports/carbon-intensity-electricity_v25_850x600.svg" width="850" height="600" loading="lazy" data-no-lightbox="" alt="Carbon intensity electricity v25 850x600"></div>
                         <div class="interactionNotice">
                             <span class="icon"><svg aria-hidden="true" focusable="false" data-prefix="fas" data-icon="hand-pointer" class="svg-inline--fa fa-hand-pointer fa-w-14" role="img" xmlns="http://www.w3.org/2000/svg" viewBox="0 0 448 617">
     <path fill="currentColor" d="M448,344.59v96a40.36,40.36,0,0,1-1.06,9.16l-32,136A40,40,0,0,1,376,616.59H168a40,40,0,0,1-32.35-16.47l-128-176a40,40,0,0,1,64.7-47.06L104,420.58v-276a40,40,0,0,1,80,0v200h8v-40a40,40,0,1,1,80,0v40h8v-24a40,40,0,1,1,80,0v24h8a40,40,0,1,1,80,0Zm-256,80h-8v96h8Zm88,0h-8v96h8Zm88,0h-8v96h8Z" transform="translate(0 -0.41)"></path>

diff --git a/energy-key-charts.html b/energy-key-charts.html
@@ -272,7 +272,7 @@
                 
 <div class="wp-sticky-container"><figure data-grapher-src="https://ourworldindata.org/grapher/carbon-intensity-electricity" class="grapherPreview">
                     <a href="https://ourworldindata.org/grapher/carbon-intensity-electricity" target="_blank">
-                        <div><img src="https://ourworldindata.org/exports/carbon-intensity-electricity_v24_850x600.svg" width="850" height="600" loading="lazy" data-no-lightbox="" alt="Carbon intensity electricity v24 850x600"></div>
+                        <div><img src="https://ourworldindata.org/exports/carbon-intensity-electricity_v25_850x600.svg" width="850" height="600" loading="lazy" data-no-lightbox="" alt="Carbon intensity electricity v25 850x600"></div>
                         <div class="interactionNotice">
                             <span class="icon"><svg aria-hidden="true" focusable="false" data-prefix="fas" data-icon="hand-pointer" class="svg-inline--fa fa-hand-pointer fa-w-14" role="img" xmlns="http://www.w3.org/2000/svg" viewBox="0 0 448 617">
     <path fill="currentColor" d="M448,344.59v96a40.36,40.36,0,0,1-1.06,9.16l-32,136A40,40,0,0,1,376,616.59H168a40,40,0,0,1-32.35-16.47l-128-176a40,40,0,0,1,64.7-47.06L104,420.58v-276a40,40,0,0,1,80,0v200h8v-40a40,40,0,1,1,80,0v40h8v-24a40,40,0,1,1,80,0v24h8a40,40,0,1,1,80,0Zm-256,80h-8v96h8Zm88,0h-8v96h8Zm88,0h-8v96h8Z" transform="translate(0 -0.41)"></path>

diff --git a/explorers/energy.html b/explorers/energy.html
@@ -5992,7 +5992,7 @@ const grapherConfigs =
   },
   {
     "id": 4767,
-    "version": 24,
+    "version": 25,
     "slug": "carbon-intensity-electricity",
     "title": "Carbon intensity of electricity",
     "subtitle": "Carbon intensity measures the amount of greenhouse gases emitted per unit of electricity produced. Here it is measured in grams of CO₂-equivalents per kilowatt-hour of electricity.",
@@ -6008,17 +6008,23 @@ const grapherConfigs =
       "max": 0
     },
     "map": {
+      "time": "latest",
       "timeTolerance": 10,
       "colorScale": {
         "baseColorScheme": "YlOrBr",
         "binningStrategy": "manual",
         "binningStrategyBinCount": 6,
         "customNumericValues": [
+          10,
+          20,
           50,
           100,
           200,
           500,
-          1000
+          700
+        ],
+        "customNumericColors": [
+          null
         ]
       },
       "variableId": 471883

diff --git a/grapher/carbon-intensity-electricity.html b/grapher/carbon-intensity-electricity.html
@@ -5,15 +5,21 @@
 {
   "id": 4767,
   "map": {
+    "time": "latest",
     "colorScale": {
       "baseColorScheme": "YlOrBr",
       "binningStrategy": "manual",
+      "customNumericColors": [
+        null
+      ],
       "customNumericValues": [
+        10,
+        20,
         50,
         100,
         200,
         500,
-        1000
+        700
       ],
       "binningStrategyBinCount": 6
     },
@@ -260,7 +266,7 @@
     "min": 0
   },
   "minTime": 2000,
-  "version": 24,
+  "version": 25,
   "subtitle": "Carbon intensity measures the amount of greenhouse gases emitted per unit of electricity produced. Here it is measured in grams of CO₂-equivalents per kilowatt-hour of electricity.",
   "hasMapTab": true,
   "originUrl": "ourworldindata.org/energy",

diff --git a/democracy.html b/democracy.html
@@ -1862,7 +1862,7 @@ Justifies democracy characteristics</td>
 
 
 
-<div class="wp-container-633f287ea20ba wp-block-group">
+<div class="wp-container-633f4c9b02740 wp-block-group">
 <ul><li><strong>full democracy</strong>: comprehensive extent of democracy, few weaknesses</li><li><strong>flawed democracy</strong>: some weaknesses in democratic institutions and culture</li><li><strong>hybrid regime</strong>: serious weaknesses in democratic institutions and culture</li><li><strong>authoritarian regime</strong>: few democratic institutions and little democratic culture</li></ul>
 </div>
 </div>

diff --git a/democracies-measurement.html b/democracies-measurement.html
@@ -531,7 +531,7 @@ Justifies democracy characteristics</td>
 
 
 
-<div class="wp-container-633f286d6fba8 wp-block-group">
+<div class="wp-container-633f4c8b94b17 wp-block-group">
 <ul><li><strong>full democracy</strong>: comprehensive extent of democracy, few weaknesses</li><li><strong>flawed democracy</strong>: some weaknesses in democratic institutions and culture</li><li><strong>hybrid regime</strong>: serious weaknesses in democratic institutions and culture</li><li><strong>authoritarian regime</strong>: few democratic institutions and little democratic culture</li></ul>
 </div>
 </div>
